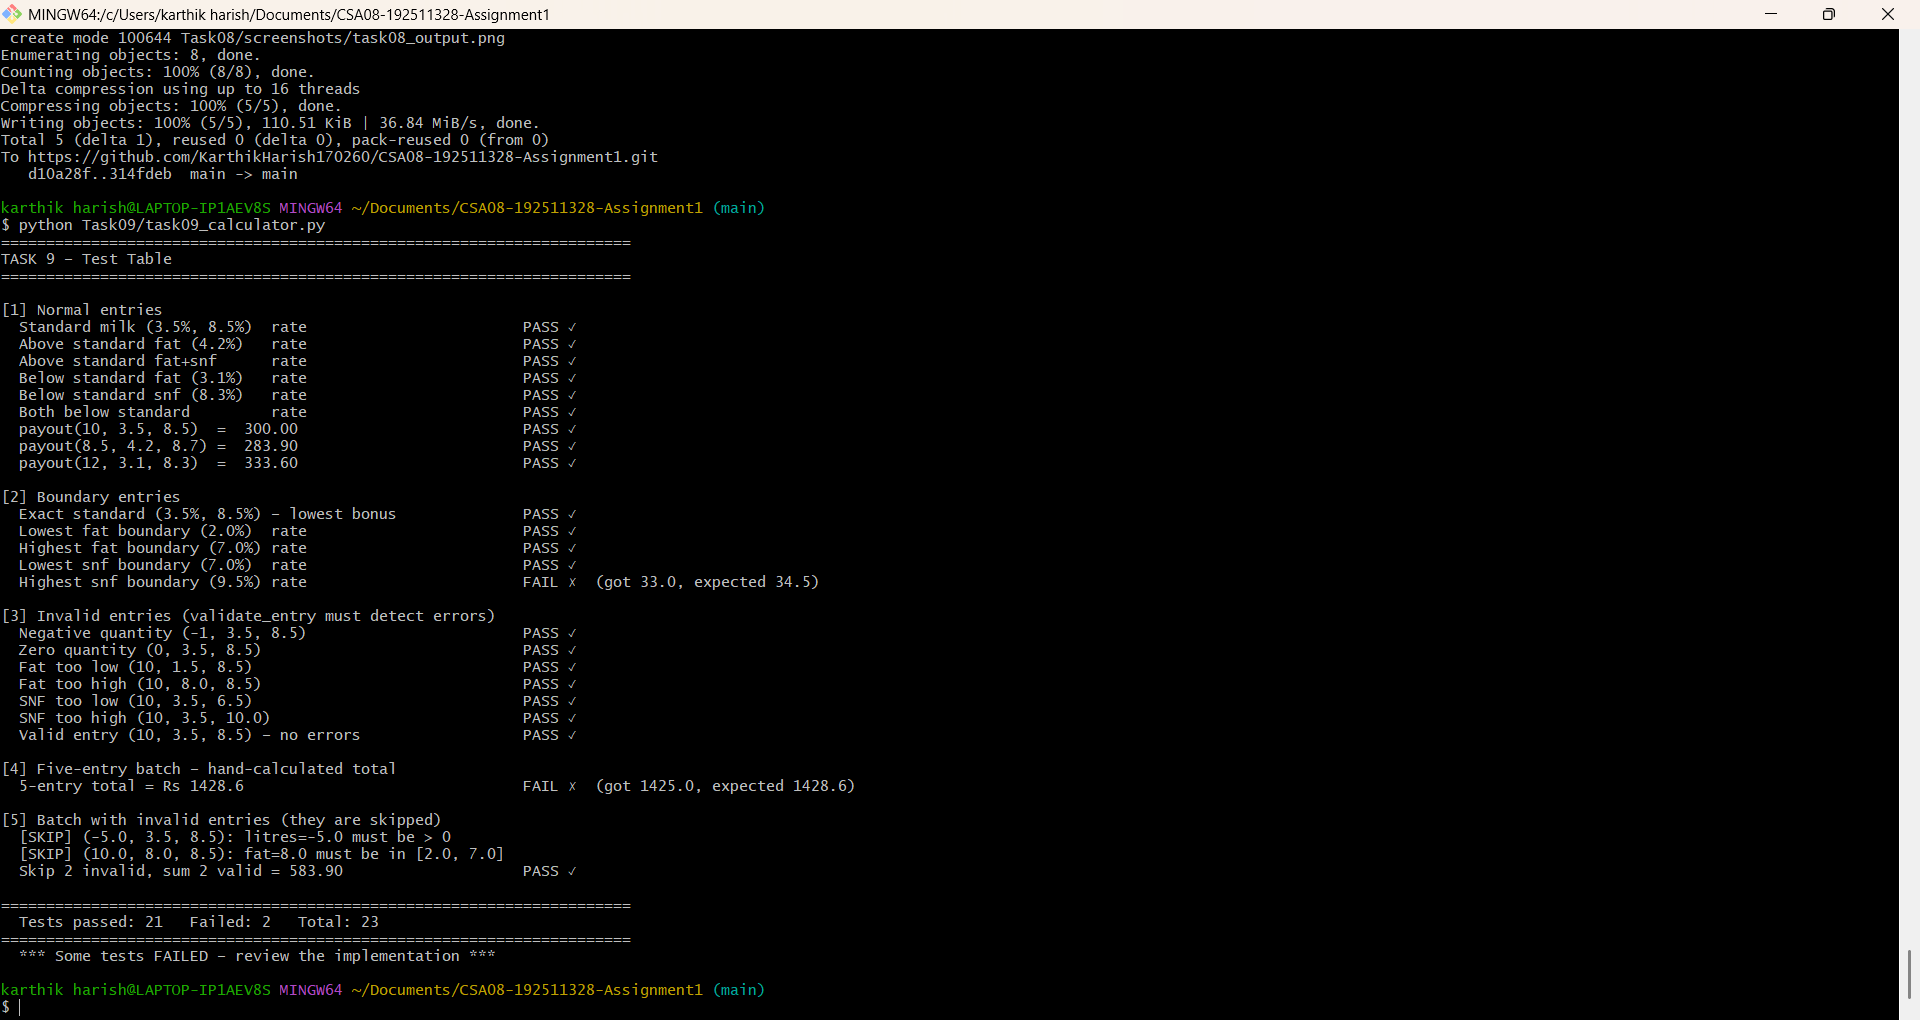
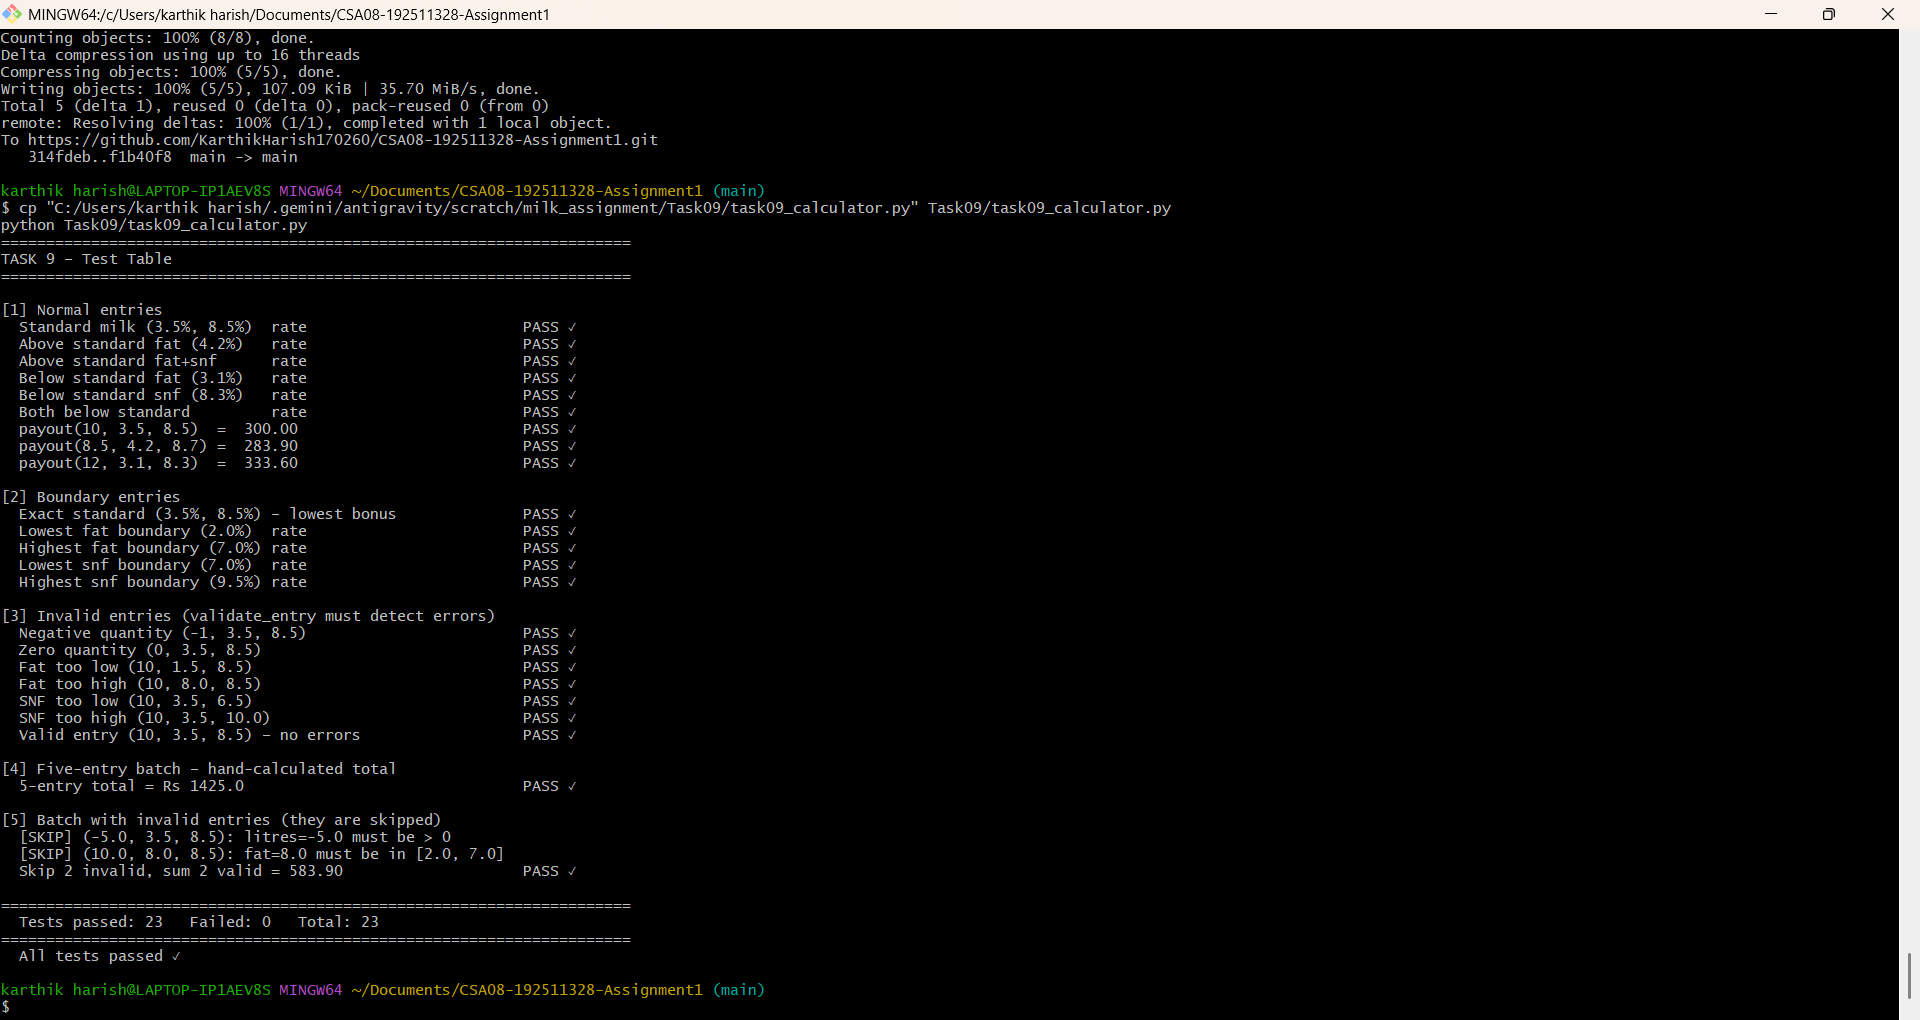
Task 9: fix test expected values, all 23 tests pass

diff --git a/Task09/task09_calculator.py b/Task09/task09_calculator.py
@@ -87,7 +87,7 @@ def run_tests():
     check("Lowest fat boundary (2.0%)  rate",            rate_per_litre(2.0, 8.5), 24.00)
     check("Highest fat boundary (7.0%) rate",            rate_per_litre(7.0, 8.5), 44.00)
     check("Lowest snf boundary (7.0%)  rate",            rate_per_litre(3.5, 7.0), 25.50)
-    check("Highest snf boundary (9.5%) rate",            rate_per_litre(3.5, 9.5), 34.50)
+    check("Highest snf boundary (9.5%) rate",            rate_per_litre(3.5, 9.5), 33.00)
 
     # ── Group 3: Invalid entries ──────────────────────────────────────────────
     print("\n[3] Invalid entries (validate_entry must detect errors)")
@@ -114,9 +114,9 @@ def run_tests():
         ( 7.0, 4.0, 8.5),
     ]
     total = ten_day_total(batch)
-    # rate(3.8,8.6)=30+3×0.4+1×0.3=31.90; payout=9×31.90=287.10
+    # rate(3.8,8.6)=30+3×0.4+1×0.3=31.50; payout=9×31.50=283.50
     # rate(4.0,8.5)=30+5×0.4=32.00; payout=7×32.00=224.00
-    expected_total = round(300.00 + 283.90 + 333.60 + 287.10 + 224.00, 2)
+    expected_total = round(300.00 + 283.90 + 333.60 + 283.50 + 224.00, 2)
     check(f"5-entry total = Rs {expected_total}", total, expected_total)
 
     # ── Group 5: Invalid entries in batch are skipped ─────────────────────────
